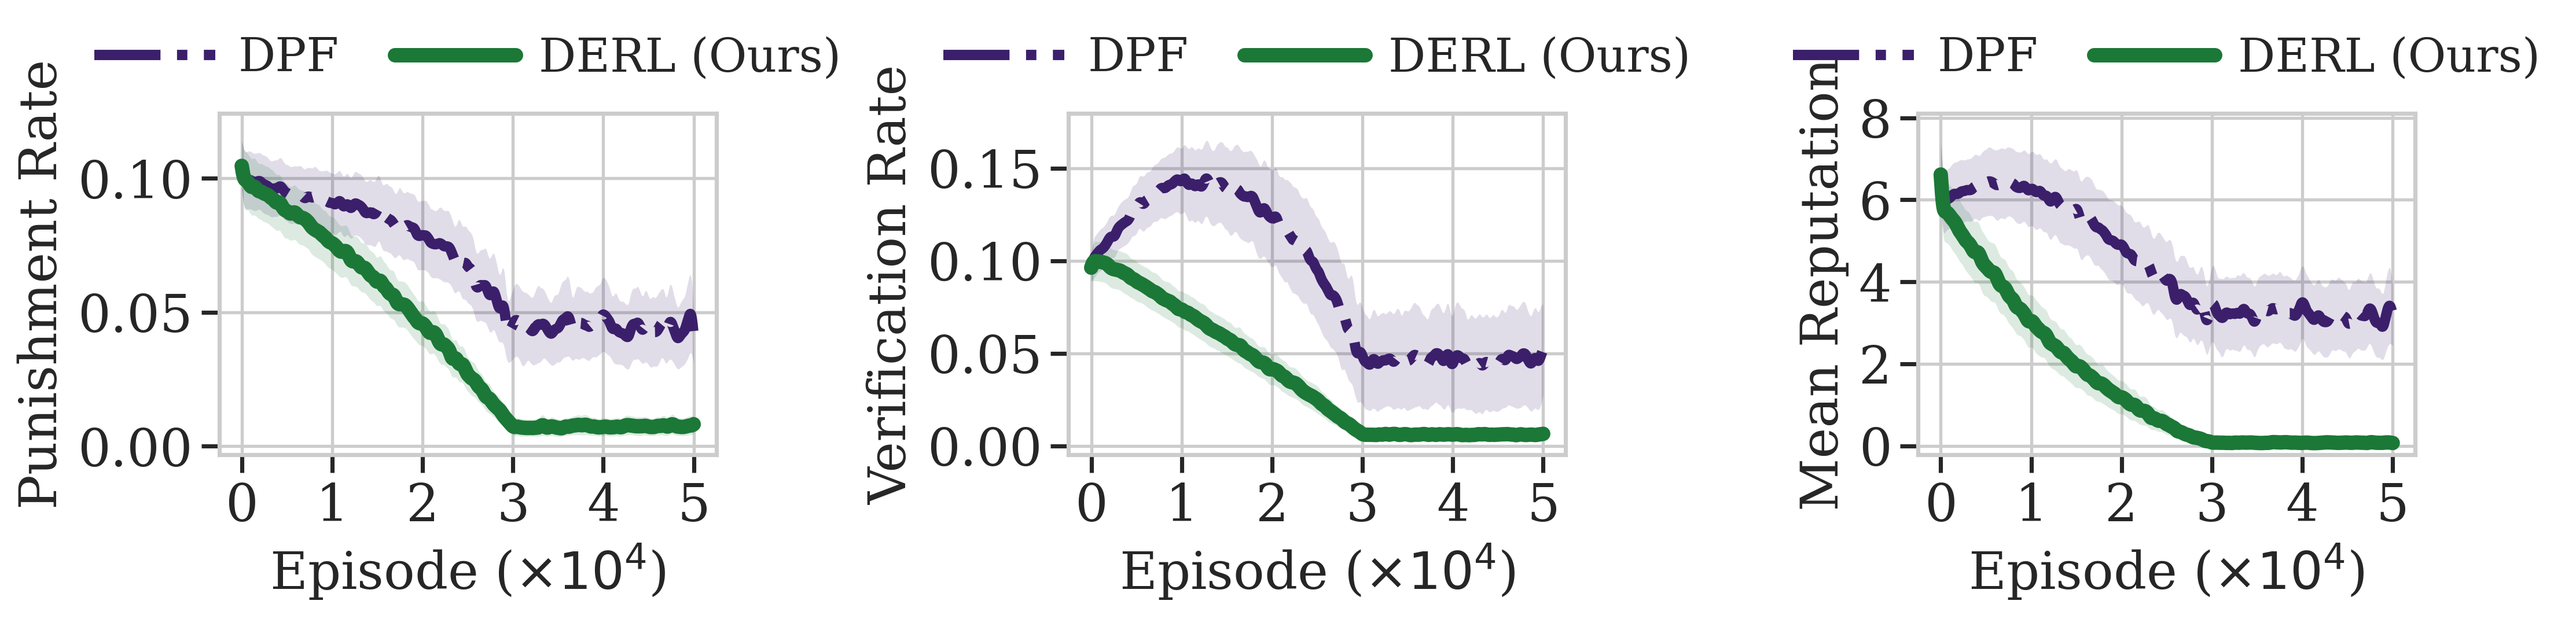
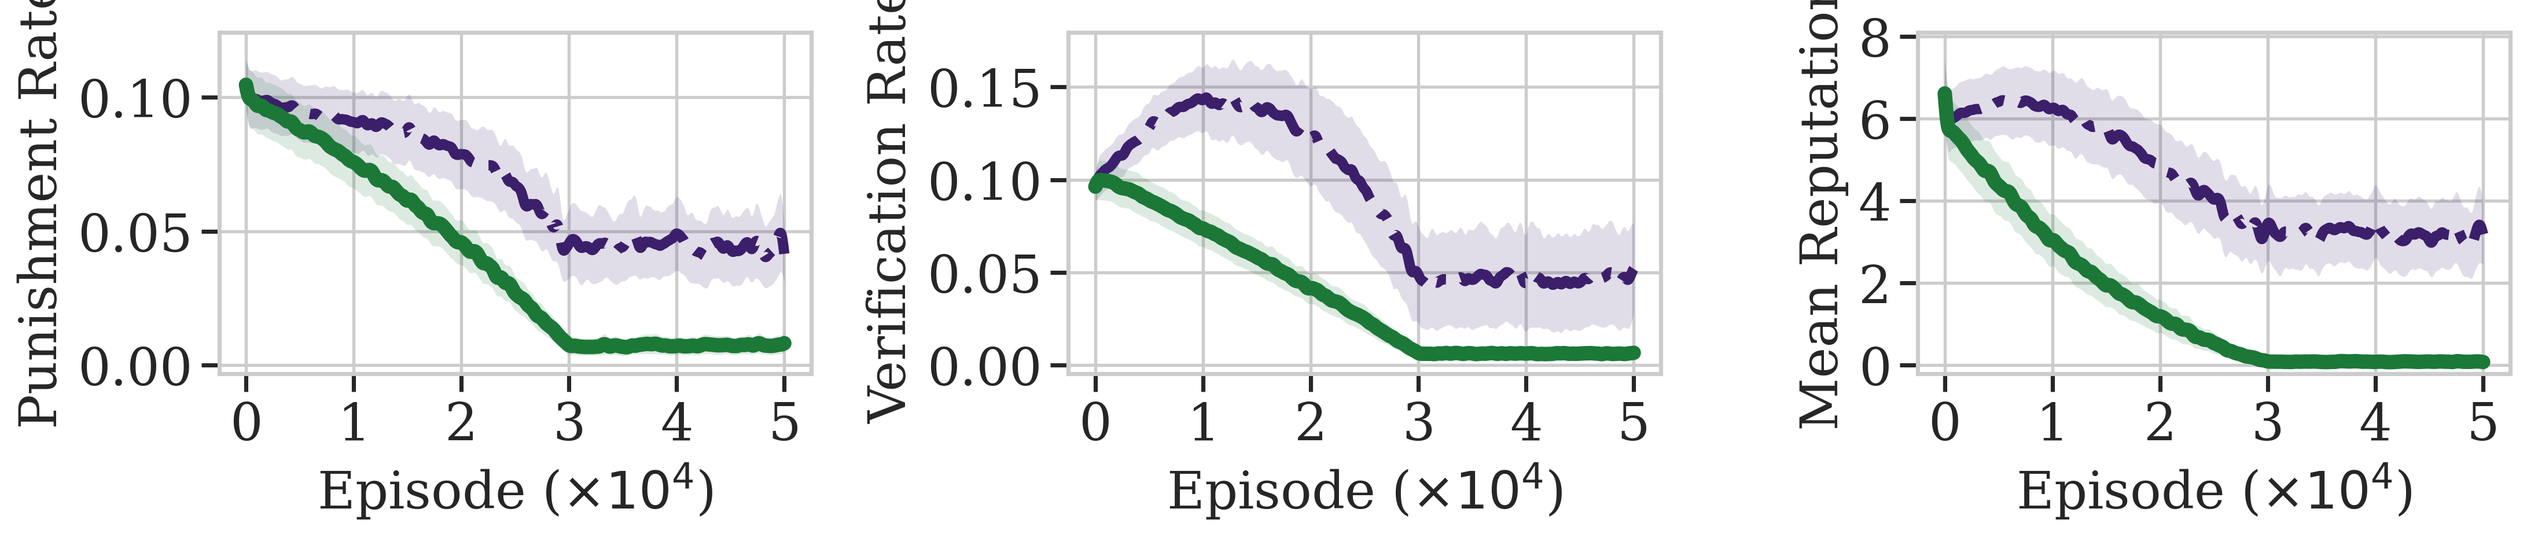
added legend strips

diff --git a/plot_from_checkpoints.py b/plot_from_checkpoints.py
@@ -1,4 +1,4 @@
-"""
+r"""
 Generate paper figures from saved .npz checkpoints.
 
 Serves BOTH model families — tabular Q-learning and IPPO — because they emit
@@ -22,12 +22,18 @@ So fonts are set to `target_pt / scale`, making text land at TARGET_PT once the
 figure is scaled into the page. `--print-width` / `--panel-print-width` declare
 the widths the figures will occupy; `--audit` reports the resulting print sizes
 and how much headroom each figure has above the 7pt floor.
+
+Defaults follow the AAAI 2026 style (aaai2026.sty): \textwidth = 7.0in and
+\columnwidth = (7.0 - 0.375)/2 = 3.3125in. Figure sizes are unchanged from the
+originals, so the page budget is unaffected.
 """
 
 import os, argparse
 import numpy as np
 import matplotlib.pyplot as plt
 from matplotlib.ticker import MaxNLocator
+from matplotlib.lines import Line2D
+from matplotlib.patches import Patch
 
 CONDITIONS = ["SRB", "ES", "DPF", "DERL", "AC"]
 ABL_PRS    = [0.0, 0.5, 1.5, 3.0]
@@ -53,9 +59,16 @@ ST = {"SRB":  dict(ls="--", lw=2.2),
 # Hatching gives bars the redundant encoding that line style gives curves.
 HATCH = ["", "///", "\\\\\\", "xxx"]
 
+# AAAI 2026 page geometry (aaai2026.sty), US Letter with 0.75in side margins
+TEXT_WIDTH   = 7.0                              # \textwidth
+COLUMN_SEP   = 0.375                            # \columnsep
+COLUMN_WIDTH = (TEXT_WIDTH - COLUMN_SEP) / 2    # 3.3125in
+
 TARGET_PT = 10.0   # body / axis labels / ticks, once printed
 LEGEND_PT = 9.0    # legend, once printed
 MIN_PT    = 7.0    # reviewer's floor (\scriptsize)
+
+PANEL_LEGENDS = False   # False: strip the per-panel legend, emit legend_*.pdf instead
 
 _K = 1.0           # current font multiplier, set by sty()
 _AUDIT = []        # (figure, source_w, print_w) collected for --audit
@@ -97,18 +110,66 @@ def st(c):
 
 
 def _record(name, source_w, print_w):
-    _AUDIT.append((name, source_w, print_w))
+    # _K is the multiplier the fonts were actually set with (from the nominal
+    # figsize); actual_w is filled in after saving, since tight bbox trims.
+    _AUDIT.append(dict(name=name, nominal_w=source_w, print_w=print_w,
+                       k=_K, actual_w=source_w))
+
+
+def _actual_width(fname):
+    """Width in inches of the file just written (tight bbox trims the nominal figsize)."""
+    from PIL import Image
+    with Image.open(f"{fname}.png") as im:
+        return im.width / 300.0
+
+
+_LEG_KW = dict(loc="lower center", bbox_to_anchor=(0.5, 1.0), frameon=False,
+               columnspacing=1.2, handletextpad=0.5, borderaxespad=0.3)
 
 
 def _legend(ax, ncol=2):
     """
-    Legend above the axes rather than inside it. At 10pt print size the legend
-    block is large relative to a 3.4in panel, and inside the axes it covers the
-    data; above, it costs height instead of hiding curves.
+    With PANEL_LEGENDS the legend sits above the axes (never over the data).
+    Otherwise it is dropped and the canvas loses exactly the height the legend
+    would have occupied — removing it alone saves nothing, because tight_layout
+    simply expands the axes to refill a fixed figsize.
     """
-    ax.legend(loc="lower center", bbox_to_anchor=(0.5, 1.0),
-              ncol=ncol, frameon=False, columnspacing=1.2,
-              handletextpad=0.5, borderaxespad=0.3)
+    fig = ax.get_figure()
+    if PANEL_LEGENDS:
+        ax.legend(ncol=ncol, **_LEG_KW)
+        return
+    if getattr(fig, "_legend_dropped", False):
+        return                      # one shrink per figure, not per panel
+    handles, _ = ax.get_legend_handles_labels()
+    if handles:
+        leg = ax.legend(ncol=ncol, **_LEG_KW)
+        fig.canvas.draw()
+        band = leg.get_window_extent().height / fig.dpi
+        leg.remove()
+        w, h = fig.get_size_inches()
+        fig.set_size_inches(w, max(h - band, h * 0.5))
+    fig._legend_dropped = True
+
+
+def _legend_strip(entries, fname, print_w):
+    """
+    Standalone one-row key, drawn at its printed width so its text is exactly
+    LEGEND_PT with no rescaling. Include once above a composite.
+    entries: list of (label, artist).
+    """
+    sty(print_w, print_w)           # k = 1, so the text is exactly LEGEND_PT
+    fig = plt.figure(figsize=(print_w, 1.0))
+    leg = fig.legend([e[1] for e in entries], [e[0] for e in entries],
+                     loc="center", ncol=len(entries), frameon=False,
+                     columnspacing=1.6, handletextpad=0.6, handlelength=2.6)
+    fig.canvas.draw()
+    band = leg.get_window_extent().height / fig.dpi
+    # keep the full print width (no tight bbox) so the strip is placed 1:1 and
+    # its text is not rescaled; trim only the height down to the legend itself
+    fig.set_size_inches(print_w, band * 1.3)
+    for e in ["pdf", "png"]:
+        fig.savefig(f"{fname}.{e}", format=e, dpi=300)
+    plt.close(fig)
 
 
 def _episode_axis(ax, n_ep):
@@ -170,6 +231,10 @@ def _save(fig, fname):
     for e in ["pdf", "png"]:
         fig.savefig(f"{fname}.{e}", format=e, bbox_inches="tight", dpi=300)
     plt.close(fig)
+    for rec in _AUDIT:                     # record the width actually written
+        if rec["name"] == fname:
+            rec["actual_w"] = _actual_width(fname)
+            break
 
 
 def _curve(R, key, ylabel, fname, panel_w, n_ep, conds=None):
@@ -228,7 +293,7 @@ def load_checkpoints(ckpt_dir, seeds):
     return R
 
 
-def make_plots(R, od, print_w=7.0, panel_w=3.4):
+def make_plots(R, od, print_w=TEXT_WIDTH, panel_w=COLUMN_WIDTH):
     os.makedirs(od, exist_ok=True)
     orig_dir = os.getcwd()
     os.chdir(od)
@@ -380,39 +445,74 @@ def _draw_all(R, print_w, panel_w):
         _save(fig, "fig10_collusion")
         n_saved += 1
 
+    if not PANEL_LEGENDS:
+        n_saved += _draw_legend_strips(R, print_w)
+
     return n_saved
+
+
+def _draw_legend_strips(R, print_w):
+    """
+    One key per distinct series set, to be included once above its figure:
+      legend_conditions -> figs 1-4, 6, 7, 8   (Figures 2, 4, 5)
+      legend_dpf_derl   -> fig05               (Figure 3)
+      legend_dpf_ac     -> fig10               (Figure 7)
+      legend_ablation   -> fig09               (Figure 6)
+    """
+    def line(c):
+        return Line2D([0], [0], color=CL[c], **ST[c])
+
+    n = 0
+    conds = [c for c in MC if c in R]
+    if conds:
+        _legend_strip([(LB[c], line(c)) for c in conds],
+                      "legend_conditions", print_w); n += 1
+    pair = [c for c in ("DPF", "DERL") if c in R]
+    if len(pair) == 2:
+        _legend_strip([(LB[c], line(c)) for c in pair],
+                      "legend_dpf_derl", print_w); n += 1
+    if "DPF" in R and "AC" in R:
+        _legend_strip([(LB[c], line(c)) for c in ("DPF", "AC")],
+                      "legend_dpf_ac", print_w); n += 1
+    if "abl_pr" in R:
+        keys = sorted(R["abl_pr"].keys())
+        cm = plt.cm.viridis
+        ents = [(f"pun_rew={k}",
+                 Patch(facecolor=cm(i / max(len(keys) - 1, 1)),
+                       hatch=HATCH[i % len(HATCH)], edgecolor="white"))
+                for i, k in enumerate(keys)]
+        _legend_strip(ents, "legend_ablation", print_w); n += 1
+    print(f"  {n} legend strip(s) written")
+    return n
 
 
 def print_audit():
     """Effective printed point sizes, and headroom above the 7pt floor."""
-    print(f"\n{'='*82}")
+    print(f"\n{'='*88}")
     print(f"  FONT AUDIT — target {TARGET_PT:.0f}pt body / {LEGEND_PT:.0f}pt legend, "
           f"floor {MIN_PT:.0f}pt")
-    print(f"{'='*82}")
-    print(f"  {'figure':<26}{'drawn':>8}{'print':>8}"
-          f"{'src body':>10}{'src leg':>9}{'-> body':>9}{'-> leg':>8}"
-          f"{'floor at':>10}  ok")
-    print(f"  {'-'*76}")
+    print(f"{'='*88}")
+    print(f"  {'figure':<26}{'saved':>8}{'print':>8}"
+          f"{'in file':>9}{'-> body':>9}{'-> leg':>8}{'floor at':>10}  ok")
+    print(f"  {'-'*82}")
     ok_all = True
-    for name, sw, pw in _AUDIT:
-        # what is literally embedded in the PDF
-        src_body = TARGET_PT * sw / pw
-        src_leg  = LEGEND_PT * sw / pw
-        # what it measures once scaled to pw: src * (pw/sw) -> back to target
-        eff_body = src_body * pw / sw
-        eff_leg  = src_leg  * pw / sw
-        # printed width at which the legend would hit the 7pt floor
-        floor_w = pw * MIN_PT / LEGEND_PT
+    for r in _AUDIT:
+        src_body = TARGET_PT * r["k"]          # what is embedded in the file
+        src_leg  = LEGEND_PT * r["k"]
+        ratio    = r["print_w"] / r["actual_w"]
+        eff_body = src_body * ratio            # what it measures on the page
+        eff_leg  = src_leg  * ratio
+        floor_w  = r["actual_w"] * MIN_PT / src_leg
         ok = eff_leg >= MIN_PT and eff_body >= MIN_PT
         ok_all &= ok
-        print(f"  {name:<26}{sw:>7.1f}\"{pw:>7.1f}\""
-              f"{src_body:>10.1f}{src_leg:>9.1f}{eff_body:>9.1f}{eff_leg:>8.1f}"
+        print(f"  {r['name']:<26}{r['actual_w']:>7.1f}\"{r['print_w']:>7.1f}\""
+              f"{src_body:>9.1f}{eff_body:>9.1f}{eff_leg:>8.1f}"
               f"{floor_w:>9.1f}\"  {'yes' if ok else 'NO'}")
-    print(f"  {'-'*76}")
-    print(f"  All figures clear the {MIN_PT:.0f}pt floor: "
-          f"{'YES' if ok_all else 'NO'}")
-    print(f"  Legends stay >= {MIN_PT:.0f}pt as long as a figure is not printed "
-          f"narrower than {MIN_PT/LEGEND_PT:.0%} of its stated width.")
+    print(f"  {'-'*82}")
+    print(f"  All figures clear the {MIN_PT:.0f}pt floor: {'YES' if ok_all else 'NO'}")
+    lo = min(r["print_w"] / r["actual_w"] * LEGEND_PT * r["k"] for r in _AUDIT)
+    hi = max(r["print_w"] / r["actual_w"] * TARGET_PT * r["k"] for r in _AUDIT)
+    print(f"  Body text lands at {hi:.1f}pt; smallest legend lands at {lo:.1f}pt.")
 
 
 if __name__ == "__main__":
@@ -420,13 +520,20 @@ if __name__ == "__main__":
     parser.add_argument("--checkpoint-dir", default="checkpoints")
     parser.add_argument("--outdir",         default="plots/v4_ppo")
     parser.add_argument("--seeds", type=int, nargs="+", default=[42, 43, 44, 45, 46])
-    parser.add_argument("--print-width", type=float, default=7.0,
-                        help="printed width (in) of the full-width multi-panel figures")
-    parser.add_argument("--panel-print-width", type=float, default=3.4,
-                        help="printed width (in) of a single panel inside a 2x2 composite")
+    parser.add_argument("--print-width", type=float, default=TEXT_WIDTH,
+                        help=f"printed width (in) of full-width figures "
+                             f"(default {TEXT_WIDTH}in = AAAI \\textwidth)")
+    parser.add_argument("--panel-print-width", type=float, default=COLUMN_WIDTH,
+                        help=f"printed width (in) of one panel of a composite "
+                             f"(default {COLUMN_WIDTH}in = AAAI \\columnwidth)")
+    parser.add_argument("--inline-legends", action="store_true",
+                        help="keep a legend on every panel instead of emitting "
+                             "standalone legend_*.pdf strips")
     parser.add_argument("--audit", action="store_true",
                         help="report effective printed point sizes")
     args = parser.parse_args()
+
+    PANEL_LEGENDS = args.inline_legends
 
     print(f"Loading checkpoints from {args.checkpoint_dir} ...")
     R = load_checkpoints(args.checkpoint_dir, args.seeds)
